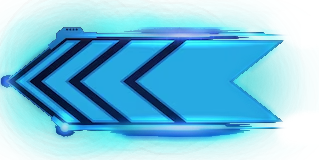
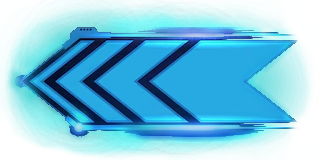
developed Next Prev button

diff --git a/js/pokemon-detail.js b/js/pokemon-detail.js
@@ -1,5 +1,5 @@
 const urlParameters = new URLSearchParams(window.location.search);
-const pokemonId = urlParameters.get("id");
+let pokemonId = urlParameters.get("id");
 const urlWithId = "https://pokeapi.co/api/v2/pokemon/" + pokemonId;
 const detailedPokemon = document.getElementById("detailExpanded"); //Locating and defining where the dynamic HTML goes
 
@@ -13,8 +13,8 @@ function convertPokemonDetailsToLi(details) {
       <img  src=".\\img\\goback.png" alt="Click to go back"></a>
     </span>
     <div class="navigation">
-    <div>prev</div>
-    <div>next</div>
+    <button id="prevButton" onclick="loadPrevPokemon()" type="button">prev</button>
+    <button id="nextButton" onclick="loadNextPokemon()" type="button">next</button>
     </div>
     <span class="number">#${details.id}</span>
     <span class="name">${details.name}</span>
@@ -184,14 +184,35 @@ function convertPokemonDetailsToLi(details) {
 `;
 }
 
-fetch(urlWithId)
-  .then((response) => response.json())
-  .then((convertedResponse) => {
-    convertPokemonDetailsToLi(convertedResponse);
-  })
-  .catch((error) =>
-    console.error(
-      "Something went wrong getting Pokémon data from the API: ",
-      error
-    )
-  );
+// Function to fetch Pokémon details
+function fetchPokemonDetails(url) {
+  fetch(url)
+    .then((response) => response.json())
+    .then((convertedResponse) => {
+      convertPokemonDetailsToLi(convertedResponse);
+    })
+    .catch((error) =>
+      console.error(
+        "Something went wrong getting Pokémon data from the API: ",
+        error
+      )
+    );
+}
+
+// Initial fetch for the Pokémon details
+fetchPokemonDetails(urlWithId);
+
+//Load Previous/Next Pokemon through the button click
+function loadPrevPokemon() {
+  const prevPokemonId = parseInt(pokemonId) - 1;
+  pokemonId = prevPokemonId;
+  const prevUrlWithId = "https://pokeapi.co/api/v2/pokemon/" + prevPokemonId;
+  fetchPokemonDetails(prevUrlWithId);
+}
+
+function loadNextPokemon() {
+  const nextPokemonId = parseInt(pokemonId) + 1;
+  pokemonId = nextPokemonId;
+  const nextUrlWithId = "https://pokeapi.co/api/v2/pokemon/" + nextPokemonId;
+  fetchPokemonDetails(nextUrlWithId);
+}

diff --git a/js/old-code-prev-button.js b/js/old-code-prev-button.js
@@ -1,0 +1,72 @@
+/* const nextUrlWithId = "https://pokeapi.co/api/v2/pokemon/" + (pokemonId + 1);
+const prevUrlWithId = "https://pokeapi.co/api/v2/pokemon/" + (pokemonId - 1); */
+
+
+/* fetch(urlWithId)
+  .then((response) => response.json())
+  .then((convertedResponse) => {
+    convertPokemonDetailsToLi(convertedResponse);
+  })
+  .catch((error) =>
+    console.error(
+      "Something went wrong getting Pokémon data from the API: ",
+      error
+    )
+  ); */
+
+/* //Condition to define the URL to fetch
+
+loadPrevPokemon.addEventListener("click", () => {
+  testePrev(prevUrlWithId);
+});
+
+function testePrev(urlnova) {
+  fetch(urlnova)
+    .then((response) => response.json())
+    .then((convertedResponse) => {
+      convertPokemonDetailsToLi(convertedResponse);
+    })
+    .catch((error) =>
+      console.error(
+        "Something went wrong getting Pokémon data from the API: ",
+        error
+      )
+    );
+} */
+/* //Next Function
+loadNextPokemon.addEventListener("click", () => {
+  const loadNextPokemon = document.getElementById("nextButton");
+   
+  fetch(urlWithId)
+    .then((response) => response.json())
+    .then((convertedResponse) => {
+      convertPokemonDetailsToLi(convertedResponse);
+    })
+    .catch((error) =>
+      console.error(
+        "Something went wrong getting Pokémon data from the API: ",
+        error
+      )
+    );
+}); */
+
+
+//EventListener trials
+/* document.addEventListener("DOMContentLoaded", function () {
+    // Add event listeners to the previous and next buttons
+    document.getElementById("prevButton").addEventListener("click", () => {
+      const prevPokemonId = parseInt(pokemonId) - 1;
+  
+      if (prevPokemonId >= 1) {
+        const prevUrlWithId =
+          "https://pokeapi.co/api/v2/pokemon/+ prevPokemonId;
+        fetchPokemonDetails(prevUrlWithId);
+      }
+    });
+  
+    document.getElementById("nextButton").addEventListener("click", () => {
+      const nextPokemonId = parseInt(pokemonId) + 1;
+      const nextUrlWithId = "https://pokeapi.co/api/v2/pokemon/" + nextPokemonId;
+      fetchPokemonDetails(nextUrlWithId);
+    });
+  }); */

diff --git a/css/pokedex.css b/css/pokedex.css
@@ -54,7 +54,11 @@
   background-color: #d685ad;
 }
 /*End of Background colors*/
-
+.pagination > button {
+  border: 3px goldenrod;
+  box-shadow: 0 0 4px rgb(255, 255, 255), 0 0 8px rgb(237, 222, 3),
+    0 0 8px rgb(255, 255, 255) inset;
+}
 .pokemons {
   display: grid;
   grid-template-columns: 1fr;
@@ -76,19 +80,21 @@
 .pokemon a img {
   max-width: 30%;
   width: 35px;
-  margin-bottom: 0.8rem;
+  margin-bottom: 0.4rem;
 }
 .chosenPokemon .pokemon .navigation {
   display: flex;
   flex-direction: row;
   justify-content: space-between;
-  padding: 1rem 1rem;
+  border: none;
 }
-.chosenPokemon .pokemon .navigation div:nth-of-type(1) {
+.chosenPokemon .pokemon .navigation button:nth-of-type(1) {
   display: flex;
   align-items: center;
   justify-content: center;
-  text-shadow: 0 0 5px #07a4ed, 0 0 2px #000;
+  margin-left: -12px;
+  border: none;
+  text-shadow: 0 0 20px #037eb8, 0 0 10px #86d9ff, 0 0 2px #000, 0 0 1px #000;
   background-color: #00808b;
   background: url("../../img/arrowL.png") no-repeat;
   background-position: center;
@@ -99,12 +105,13 @@
   color: #ffffff;
   opacity: 0.9;
 }
-.chosenPokemon .pokemon .navigation div:nth-of-type(2) {
+.chosenPokemon .pokemon .navigation button:nth-of-type(2) {
   display: flex;
   align-items: center;
   justify-content: center;
-  text-shadow: 0 0 5px #07a4ed, 0 0 2px #000;
-  background-color: #00808b;
+  margin-right: -12px;
+  border: none;
+  text-shadow: 0 0 20px #037eb8, 0 0 10px #86d9ff, 0 0 2px #000, 0 0 1px #000;
   background: url("../../img/arrowR.png") no-repeat;
   background-position: center;
   background-size: 110px;

diff --git a/details.html b/details.html
@@ -30,6 +30,7 @@
         </div>
         <ol id="detailExpanded" class="chosenPokemon">
 
+
         </ol>
 
     </section>
@@ -37,7 +38,7 @@
     <!-- JS -->
     <script src=".\\js\\pokemon-model.js"></script>
     <script src=".\\js\\poke-api.js"></script>
-    <script src=".\\js\\pokemon-detail.js"></script>
+    <script src=".\\js\\pokemon-detail.js" defer></script>
     <script src=".\\js\\main.js"></script>
 </body>
 

diff --git a/css/global.css b/css/global.css
@@ -17,11 +17,6 @@ a {
   text-decoration: none;
 }
 
-button {
-  border: 3px goldenrod;
-  box-shadow: 0 0 4px rgb(255, 255, 255), 0 0 8px rgb(237, 222, 3),
-    0 0 8px rgb(255, 255, 255) inset;
-}
 .content {
   width: 95%;
   height: 85%;
